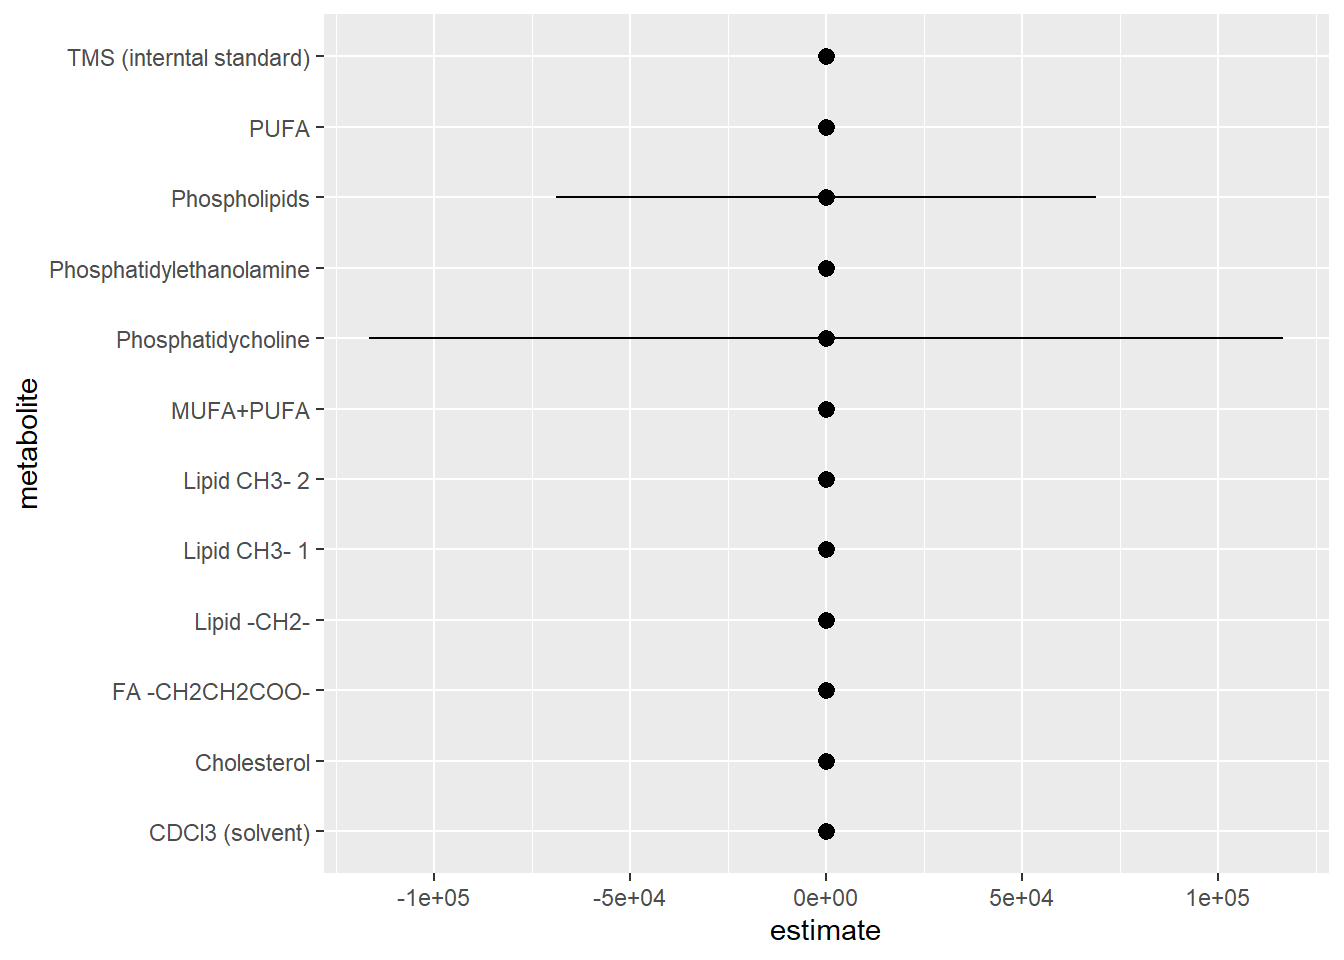
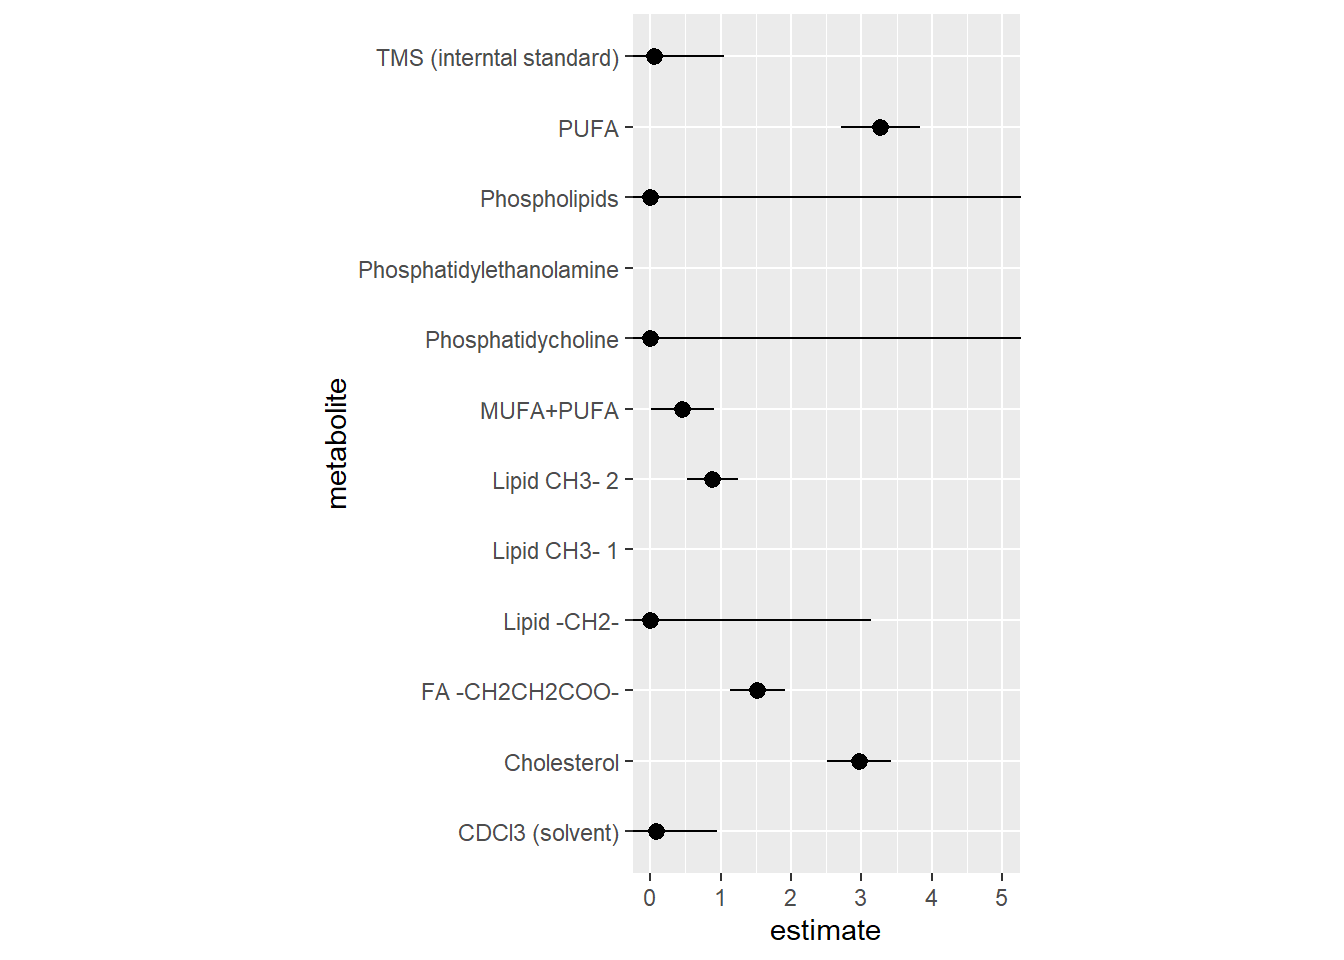
Adding author

diff --git a/doc/learning.html b/doc/learning.html
@@ -84,16 +84,23 @@ pre > code.sourceCode > span > a:first-child::before { text-decoration: underlin
 </div>
 
 
+<div class="quarto-title-meta-author">
+  <div class="quarto-title-meta-heading">Author</div>
+  <div class="quarto-title-meta-heading">Affiliation</div>
+  
+    <div class="quarto-title-meta-contents">
[1 lines of base64/hex data omitted]
+  </div>
+    <div class="quarto-title-meta-contents">
+        <p class="affiliation">
+            SDU
+          </p>
+      </div>
+    </div>
 
 <div class="quarto-title-meta">
 
-    <div>
-    <div class="quarto-title-meta-heading">Author</div>
-    <div class="quarto-title-meta-contents">
-             <p>Ana Tavanez </p>
-          </div>
-  </div>
-    
+      
   
     
   </div>
@@ -206,7 +213,7 @@ pre > code.sourceCode > span > a:first-child::before { text-decoration: underlin
 ✖ dplyr::lag()      masks stats::lag()
 ✖ yardstick::spec() masks readr::spec()
 ✖ recipes::step()   masks stats::step()
-• Dig deeper into tidy modeling with R at https://www.tmwr.org</code></pre>
+• Learn how to get started at https://www.tidymodels.org/start/</code></pre>
 </div>
 <div class="sourceCode cell-code" id="cb30"><pre class="sourceCode r code-with-copy"><code class="sourceCode r"><span id="cb30-1"><a href="#cb30-1" aria-hidden="true" tabindex="-1"></a><span class="fu">source</span>(here<span class="sc">::</span><span class="fu">here</span>(<span class="st">"R/functions.R"</span>))</span>
 <span id="cb30-2"><a href="#cb30-2" aria-hidden="true" tabindex="-1"></a>lipidomics <span class="ot">&lt;-</span> <span class="fu">tar_read</span>(lipidomics)</span></code><button title="Copy to Clipboard" class="code-copy-button"><i class="bi"></i></button></pre></div>
@@ -362,41 +369,10 @@ Warning: glm.fit: fitted probabilities numerically 0 or 1 occurred</code></pre>
 <div class="sourceCode cell-code" id="cb41"><pre class="sourceCode r code-with-copy"><code class="sourceCode r"><span id="cb41-1"><a href="#cb41-1" aria-hidden="true" tabindex="-1"></a>model_estimates <span class="ot">&lt;-</span> <span class="fu">tar_read</span>(df_model_estimates)</span></code><button title="Copy to Clipboard" class="code-copy-button"><i class="bi"></i></button></pre></div>
 </div>
 <div class="cell">
-<div class="sourceCode cell-code" id="cb42"><pre class="sourceCode r code-with-copy"><code class="sourceCode r"><span id="cb42-1"><a href="#cb42-1" aria-hidden="true" tabindex="-1"></a>plot_estimates <span class="ot">&lt;-</span> model_estimates <span class="sc">%&gt;%</span></span>
-<span id="cb42-2"><a href="#cb42-2" aria-hidden="true" tabindex="-1"></a>  <span class="fu">ggplot</span>(<span class="fu">aes</span>(</span>
-<span id="cb42-3"><a href="#cb42-3" aria-hidden="true" tabindex="-1"></a>    <span class="at">x =</span> estimate,</span>
-<span id="cb42-4"><a href="#cb42-4" aria-hidden="true" tabindex="-1"></a>    <span class="at">y =</span> metabolite,</span>
-<span id="cb42-5"><a href="#cb42-5" aria-hidden="true" tabindex="-1"></a>    <span class="at">xmin =</span> estimate <span class="sc">-</span> std.error,</span>
-<span id="cb42-6"><a href="#cb42-6" aria-hidden="true" tabindex="-1"></a>    <span class="at">xmax =</span> estimate <span class="sc">+</span> std.error</span>
-<span id="cb42-7"><a href="#cb42-7" aria-hidden="true" tabindex="-1"></a>  )) <span class="sc">+</span></span>
-<span id="cb42-8"><a href="#cb42-8" aria-hidden="true" tabindex="-1"></a>  <span class="fu">geom_pointrange</span>()</span>
-<span id="cb42-9"><a href="#cb42-9" aria-hidden="true" tabindex="-1"></a>plot_estimates</span></code><button title="Copy to Clipboard" class="code-copy-button"><i class="bi"></i></button></pre></div>
+<div class="sourceCode cell-code" id="cb42"><pre class="sourceCode r code-with-copy"><code class="sourceCode r"><span id="cb42-1"><a href="#cb42-1" aria-hidden="true" tabindex="-1"></a><span class="fu">tar_read</span>(fig_model_estimates)</span></code><button title="Copy to Clipboard" class="code-copy-button"><i class="bi"></i></button></pre></div>
 <div class="cell-output-display">
 <p><img src="learning_files/figure-html/unnamed-chunk-6-1.png" class="img-fluid" width="672"></p>
 </div>
-<div class="sourceCode cell-code" id="cb43"><pre class="sourceCode r code-with-copy"><code class="sourceCode r"><span id="cb43-1"><a href="#cb43-1" aria-hidden="true" tabindex="-1"></a>plot_estimates <span class="sc">+</span></span>
-<span id="cb43-2"><a href="#cb43-2" aria-hidden="true" tabindex="-1"></a>  <span class="fu">coord_fixed</span>(<span class="at">xlim =</span> <span class="fu">c</span>(<span class="dv">0</span>, <span class="dv">5</span>))</span></code><button title="Copy to Clipboard" class="code-copy-button"><i class="bi"></i></button></pre></div>
-<div class="cell-output-display">
-<p><img src="learning_files/figure-html/unnamed-chunk-6-2.png" class="img-fluid" width="672"></p>
-</div>
-</div>
-<div class="cell">
-<div class="sourceCode cell-code" id="cb44"><pre class="sourceCode r code-with-copy"><code class="sourceCode r"><span id="cb44-1"><a href="#cb44-1" aria-hidden="true" tabindex="-1"></a><span class="co">#' Plot the estimates and standard errors of the model results.</span></span>
-<span id="cb44-2"><a href="#cb44-2" aria-hidden="true" tabindex="-1"></a><span class="co">#'</span></span>
-<span id="cb44-3"><a href="#cb44-3" aria-hidden="true" tabindex="-1"></a><span class="co">#' @param results The model estimate results</span></span>
-<span id="cb44-4"><a href="#cb44-4" aria-hidden="true" tabindex="-1"></a><span class="co">#'</span></span>
-<span id="cb44-5"><a href="#cb44-5" aria-hidden="true" tabindex="-1"></a><span class="co">#' @return A gg2 plot figure</span></span>
-<span id="cb44-6"><a href="#cb44-6" aria-hidden="true" tabindex="-1"></a>plot_estimates <span class="ot">&lt;-</span> <span class="cf">function</span>(results) {</span>
-<span id="cb44-7"><a href="#cb44-7" aria-hidden="true" tabindex="-1"></a>  results <span class="sc">%&gt;%</span></span>
-<span id="cb44-8"><a href="#cb44-8" aria-hidden="true" tabindex="-1"></a>    ggplot2<span class="sc">::</span><span class="fu">ggplot</span>(ggplot2<span class="sc">::</span><span class="fu">aes</span>(</span>
-<span id="cb44-9"><a href="#cb44-9" aria-hidden="true" tabindex="-1"></a>      <span class="at">x =</span> estimate,</span>
-<span id="cb44-10"><a href="#cb44-10" aria-hidden="true" tabindex="-1"></a>      <span class="at">y =</span> metabolite,</span>
-<span id="cb44-11"><a href="#cb44-11" aria-hidden="true" tabindex="-1"></a>      <span class="at">xmin =</span> estimate <span class="sc">-</span> std.error,</span>
-<span id="cb44-12"><a href="#cb44-12" aria-hidden="true" tabindex="-1"></a>      <span class="at">xmax =</span> estimate <span class="sc">+</span> std.error</span>
-<span id="cb44-13"><a href="#cb44-13" aria-hidden="true" tabindex="-1"></a>    )) <span class="sc">+</span></span>
-<span id="cb44-14"><a href="#cb44-14" aria-hidden="true" tabindex="-1"></a>    ggplot2<span class="sc">::</span><span class="fu">geom_pointrange</span>() <span class="sc">+</span></span>
-<span id="cb44-15"><a href="#cb44-15" aria-hidden="true" tabindex="-1"></a>    ggplot2<span class="sc">::</span><span class="fu">coord_fixed</span>(<span class="at">xlim =</span> <span class="fu">c</span>(<span class="dv">0</span>, <span class="dv">5</span>))</span>
-<span id="cb44-16"><a href="#cb44-16" aria-hidden="true" tabindex="-1"></a>}</span></code><button title="Copy to Clipboard" class="code-copy-button"><i class="bi"></i></button></pre></div>
 </div>
 </section>
 
